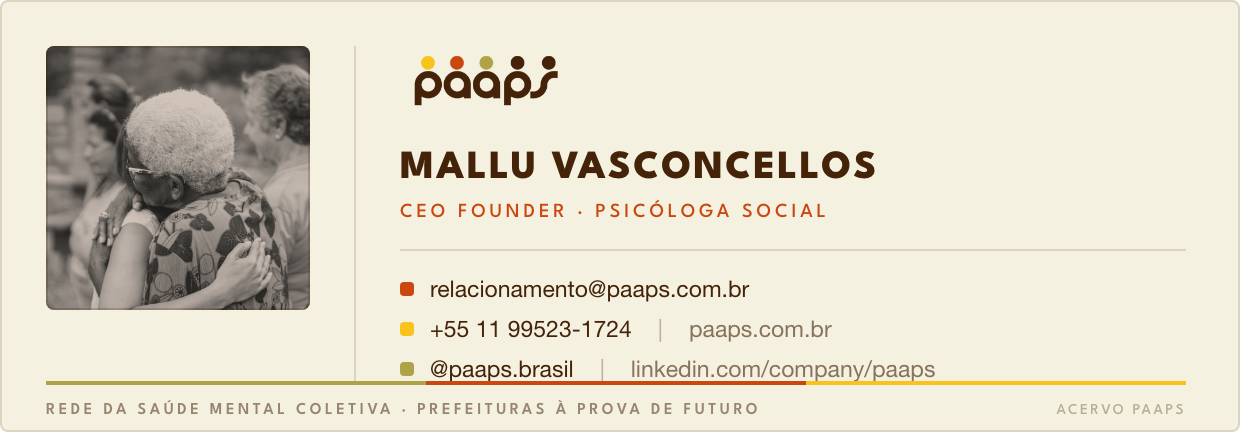
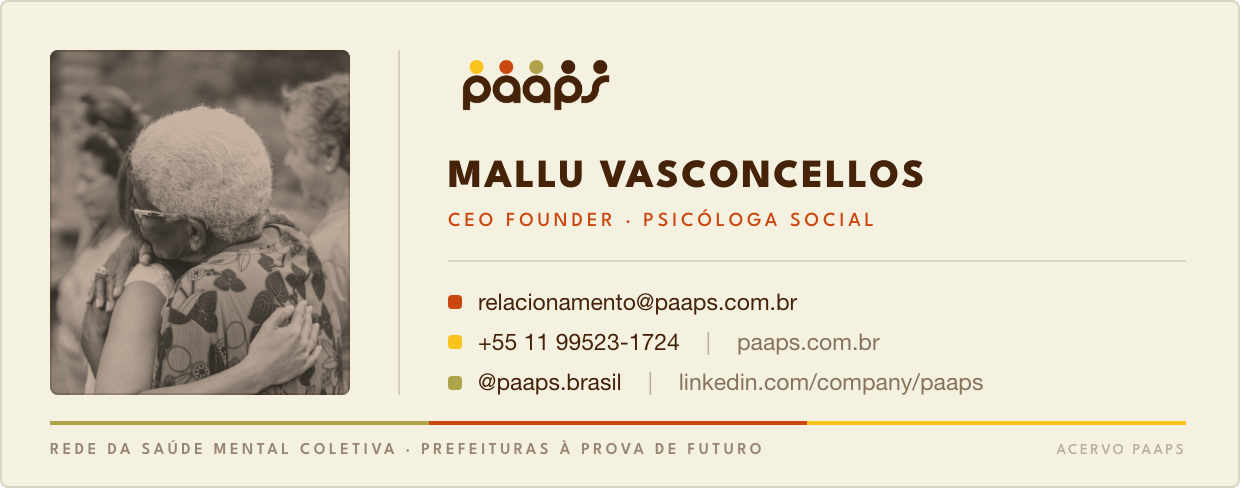
auto: .claude, insumos-compartilhados, sessoes - 2026-07-24 23:41

Changed region(s): [[0.0305, 0.0894, 0.9469, 0.805], [0.0305, 0.8349, 0.9469, 0.9541], [0.0, 0.9839, 0.9775, 1.0]]

diff --git a/insumos-compartilhados/assinatura-email/assinatura-a-campo.html b/insumos-compartilhados/assinatura-email/assinatura-a-campo.html
@@ -3,19 +3,19 @@
 <link rel="stylesheet" href="base.css">
 <style>
   .cartao {
-    position:relative; width:620px; height:244px; overflow:hidden;
+    position:relative; width:620px; height:252px; overflow:hidden;
     background:var(--cor-fundo); border:1px solid var(--linha); border-radius:var(--raio);
     display:flex; flex-direction:column; justify-content:space-between;
     padding:24px 26px 0 24px;
   }
-  .corpo { display:flex; align-items:stretch; gap:24px; }
+  .corpo { display:flex; align-items:stretch; gap:22px; }
 
   /* foto do PhotoBank, em monocromia quente (convenção P&B da marca) */
-  .moldura { position:relative; flex:none; width:150px; align-self:stretch; border-radius:var(--raio); overflow:hidden; }
-  .moldura img { width:100%; height:100%; object-fit:cover; object-position:54% 44%;
-                 filter:grayscale(1) contrast(1.08) brightness(1.04); }
-  .moldura .tinta { position:absolute; inset:0; background:#6b3a15; mix-blend-mode:multiply; opacity:0.46; }
-  .moldura .luz   { position:absolute; inset:0; background:#f7e9c8; mix-blend-mode:screen; opacity:0.16; }
+  .moldura { position:relative; flex:none; width:184px; align-self:stretch; border-radius:var(--raio); overflow:hidden; }
+  .moldura img { width:100%; height:100%; object-fit:cover; object-position:50% 50%;
+                 filter:grayscale(1) contrast(1.1) brightness(1.05); }
+  .moldura .tinta { position:absolute; inset:0; background:#6b3a15; mix-blend-mode:multiply; opacity:0.42; }
+  .moldura .luz   { position:absolute; inset:0; background:#f7e9c8; mix-blend-mode:screen; opacity:0.14; }
   .moldura .borda { position:absolute; inset:0; border:1px solid rgba(68,35,9,0.22); border-radius:var(--raio); }
 
   .regua { flex:none; width:1px; background:rgba(68,35,9,0.16); }

diff --git a/.claude/skills/email-prospeccao/SKILL.md b/.claude/skills/email-prospeccao/SKILL.md
@@ -16,6 +16,24 @@ O e-mail chega cuidando, sobre um fato local verificável, na voz do PAAPS Brasi
 - **Sem fato local publicado e com fonte (link), você não escreve.** O lead volta ao buscador. Gancho sem link é gancho inventado, e um gancho errado numa prefeitura queima a Mallu com nome e assinatura.
 - **Nenhum e-mail vai ao disparo sem a Mallu ver.** Você entrega a ela, não ao n8n.
 
+## A estratégia: por que esta prospecção funciona
+
+O arco importa mais que as frases. É esta ordem que faz o e-mail ser lido em vez de virar mais um pitch:
+
+1. **Abra sobre eles, nunca sobre nós.** A primeira frase é sobre o território: o que a cidade fez, tem ou carrega (o gancho). Isso prova que estudamos aquele lugar e compra a atenção antes de qualquer oferta. Abrir com "somos o PAAPS Brasil" mata o e-mail.
+2. **Fale de nós com respaldo de pesquisa e campo.** "Fazemos pesquisa e trabalho de campo com servidores de linha de frente" entrega autoridade e dado em vez de opinião. É o que separa o PAAPS Brasil de uma empresa de wellness e o que sustenta o padrão que vamos nomear.
+3. **Apresente o PAAPS Brasil e o impacto.** O que é, e a lógica dos três fins que justifica o cuidado coletivo.
+4. **Volte para a prefeitura.** A dor da gestão (o RH sobrecarregado) fecha o laço aberto na abertura e mostra que entendemos a realidade de quem lê.
+5. **Feche com um CTA direto que qualifica.** Conversa breve, e "se houver interesse". Esse "se houver interesse" funciona como qualificador: deixa o próprio lead se selecionar e poupa reunião com quem não tem chance de fechar. Depois de explicar a situação, vá direto.
+
+## O destinatário: saudação honesta
+
+Antes da saudação, responda: **sabemos quem vai ler?**
+
+- Nome e cargo conhecidos: "Prezado(a) [Nome]" ou "Prezado Secretário [Nome]".
+- Só o cargo, com confiança de que é o leitor: "Prezado Secretário de Saúde,".
+- **Não sabemos quem lê** (caixa institucional geral): trate a instituição, "À Secretaria Municipal de Saúde de [cidade]," ou "Prezados,". Nunca invente um cargo. "Prezado Secretário" sem saber se um secretário lê é chute, e chute quebra a confiança que a abertura constrói.
+
 ## Processo
 
 1. Ler a ficha do lead (7 dados) e o `.claude/agent-memory/carta-fria/APRENDIZADO.md` atual.
@@ -32,9 +50,21 @@ O e-mail chega cuidando, sobre um fato local verificável, na voz do PAAPS Brasi
    - o toque na dor da gestão (RH sobrecarregado, método próprio, lado a lado);
    - a prova curta (Bela Vista de Minas e Desterro do Melo, entre outros);
    - o CTA.
-5. Dar nota de 0 a 100, honesta, e dizer o que segura a nota.
+5. Dar a autonota de 0 a 100 pelo raciocínio da seção "Como se dá a autonota", e dizer em uma linha o que segura a nota.
 6. Levar ao gate da Mallu com o lead, o gancho com a fonte, o texto inteiro, o assunto e a nota.
 7. Registrar a correção dela e, depois, o resultado real no `APRENDIZADO.md`.
+
+## Como se dá a autonota
+
+A nota é um diagnóstico de prontidão, para o gate ler rápido onde o e-mail é forte e onde é frágil. Ela nunca é inflada para passar: a fraqueza honesta é o valor da nota. Pontue olhando cinco coisas:
+
+- **Força do gancho.** Fato local com fonte, fresco e específico puxa a nota para cima; gancho só estrutural ou genérico segura. Sem fato com fonte não há e-mail, logo não há nota.
+- **Encaixe no ICP e porte.** Segmento, porte e estratégia batem com o que o PAAPS Brasil entrega?
+- **Arco.** Abre sobre eles, dá respaldo de pesquisa, apresenta o PAAPS Brasil, volta para a prefeitura e fecha direto? Arco quebrado derruba a nota mesmo com bom gancho.
+- **Precisão do destinatário.** Sabemos quem lê? A saudação é honesta? Cargo chutado segura a nota.
+- **Voz e proibições.** Passou no filtro anti-IA e nas proibições ativas? Deslize aqui é corte grande.
+
+Faixas: 90+ gancho fresco e específico, destinatário certo, arco limpo, voz impecável; 80 a 89 sólido, com um ponto a confirmar; abaixo de 80 há fragilidade real a resolver antes do gate. Diga sempre, em uma linha, o que puxou a nota para baixo.
 
 ## Regras de voz (calibradas no gate)
 
@@ -65,3 +95,4 @@ Estes princípios são o ponto de partida e evoluem com o resultado. Segui-los a
 | "Falo que deixamos capacidade instalada" | A PAAPS Brasil acabou de chegar. Não prometa saída. |
 | "Esse gancho genérico serve" | Sem fato local com fonte, o lead volta ao buscador. |
 | "Sigo a regra mesmo piorando a carta" | Baseline vivo. Se piora, adapte. Vence o resultado. |
+| "Deve ser o secretário que lê" | Sem confirmar quem lê, a saudação trata a instituição em vez de chutar um cargo. |

diff --git a/sessoes/sessao-2026-07-24.md b/sessoes/sessao-2026-07-24.md
@@ -23,3 +23,13 @@
 ?? insumos-compartilhados/assinatura-email/
 ```
 
+
+## 23:41
+```
+ M .claude/skills/email-prospeccao/SKILL.md
+ M insumos-compartilhados/assinatura-email/assets/foto-photobank.jpg
+ M insumos-compartilhados/assinatura-email/assinatura-a-campo.html
+ M insumos-compartilhados/assinatura-email/assinatura-paaps-a-campo.png
+ M insumos-compartilhados/assinatura-email/assinatura-paaps-b-editorial.png
+```
+
